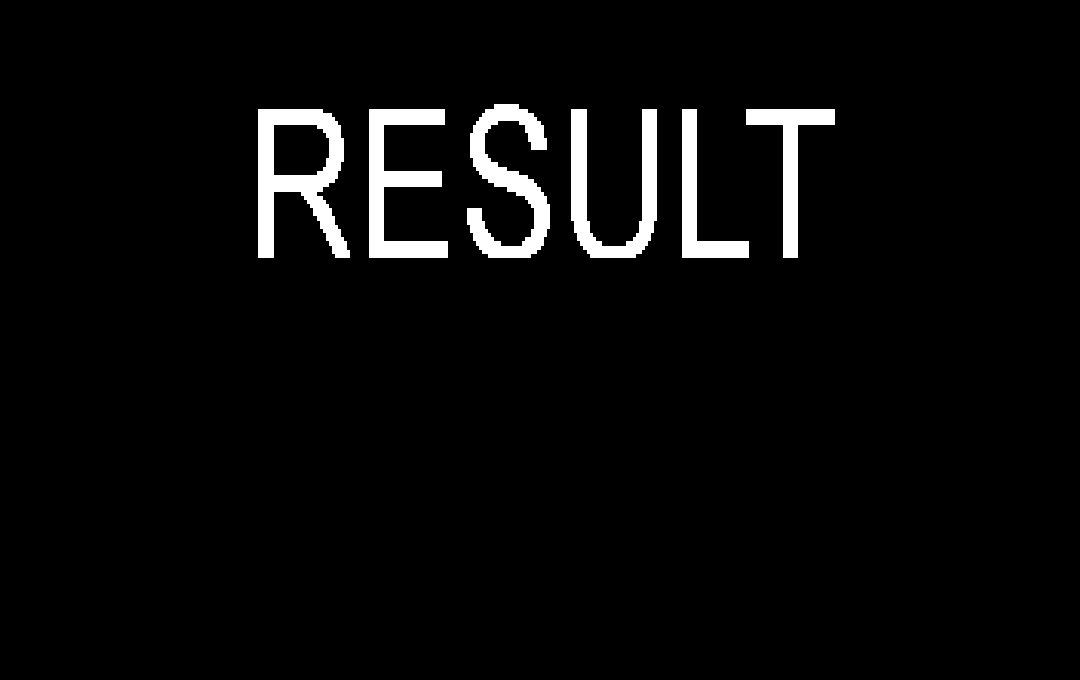
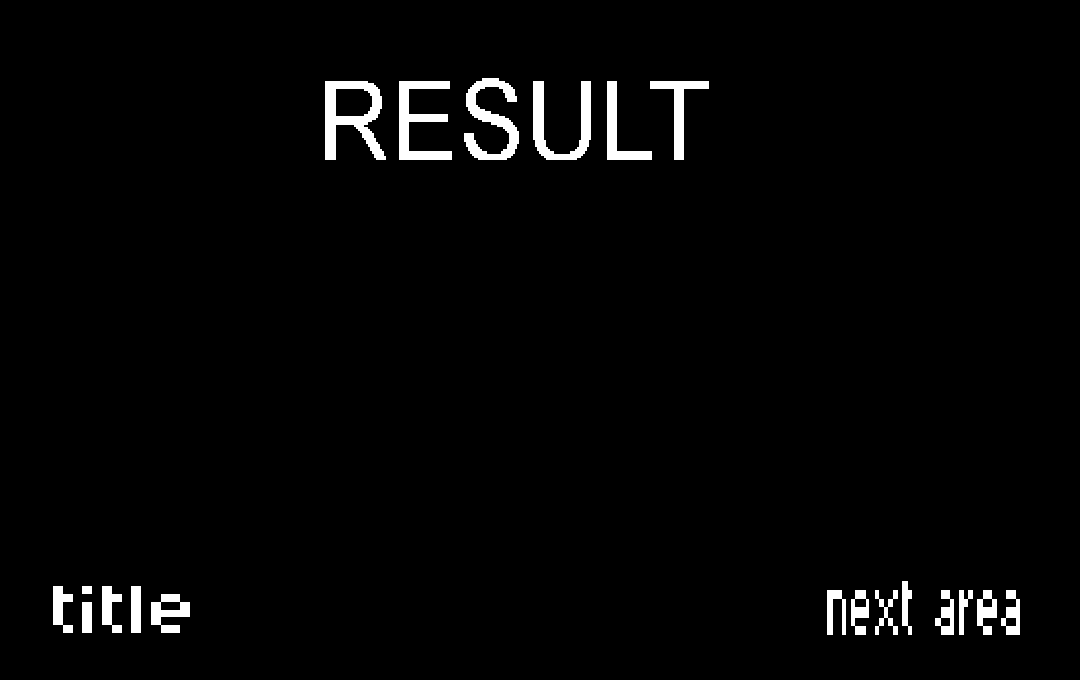
added square enemy and changed a bit the result scene.

Changed region(s): [[0.2139, 0.0926, 0.7944, 0.4015], [0.7639, 0.8647, 0.9472, 0.9574], [0.0306, 0.8647, 0.1833, 0.9265]]

diff --git a/DX21_05_Init/Enemy.cpp b/DX21_05_Init/Enemy.cpp
@@ -23,6 +23,9 @@ ID3D11ShaderResourceView* g_fastEnemyDeathTexture = nullptr;
 ID3D11ShaderResourceView* g_bombEnemyIdleTexture = nullptr;
 ID3D11ShaderResourceView* g_bombEnemyDeathTexture = nullptr;
 
+ID3D11ShaderResourceView* g_squareEnemyIdleTexture = nullptr;
+ID3D11ShaderResourceView* g_squareEnemyDeathTexture = nullptr;
+
 // 修改InitEnemies函数，加载所有纹理
 void InitEnemies() {
     // 加载敌人纹理
@@ -46,6 +49,10 @@ void InitEnemies() {
     // 炸弹敌人
     LoadTexture(g_pDevice, "asset/enemy/enemy_005_thorn/enemy_005_thorn_idle.png", &g_bombEnemyIdleTexture);
     LoadTexture(g_pDevice, "asset/enemy/enemy_005_thorn/enemy_005_thorn_death.png", &g_bombEnemyDeathTexture);
+
+    // Square enemy
+    LoadTexture(g_pDevice, "asset/enemy/enemy_006_square/enemy_006_square.png", &g_squareEnemyIdleTexture);
+    LoadTexture(g_pDevice, "asset/enemy/enemy_006_square/enemy_006_square_death.png", &g_squareEnemyDeathTexture);
 }
 
 // Enemy类实现
@@ -1153,6 +1160,123 @@ void BossEnemy::OnDeath() {
 }
 
 
+// SquareEnemy implementation - stationary enemy
+SquareEnemy::SquareEnemy(float x, float y) : Enemy(x, y, 100.0f) {
+    // Square enemy: takes normal damage from all directions
+    SetDamageMultiplier(DIR_FRONT, 1.0f);
+    SetDamageMultiplier(DIR_BACK, 1.0f);
+    SetDamageMultiplier(DIR_UP, 1.0f);
+    SetDamageMultiplier(DIR_DOWN, 1.0f);
+    SetDamageMultiplier(DIR_FRONT_UP, 1.0f);
+    SetDamageMultiplier(DIR_FRONT_DOWN, 1.0f);
+    SetDamageMultiplier(DIR_BACK_UP, 1.0f);
+    SetDamageMultiplier(DIR_BACK_DOWN, 1.0f);
+
+    width = PLAYER_WIDTH * 1.0f;
+    height = PLAYER_HEIGHT * 1.0f;
+    moveSpeed = 0.0f;  // Doesn't move
+    detectionRange = 0.0f;  // Doesn't chase
+    attackRange = 0.0f;  // Contact damage only
+
+    // Add animations (adjust frame counts based on your sprites)
+    anim.AddClip("idle", 0, 0, 1, 1, 0.1f, true, g_squareEnemyIdleTexture);
+    anim.AddClip("death", 0, 3, 1, 4, 0.1f, false, g_squareEnemyDeathTexture); // Adjust frames as needed
+
+    anim.SetClip("idle");
+
+    pulseTimer = 0.0f;
+    scale = 3.0f;
+}
+
+void SquareEnemy::Update(float deltaTime, MapManager* mapManager) {
+    // Handle death state first
+    if (isDying) {
+        anim.Update(deltaTime);
+
+        if (anim.IsFinished()) {
+            markedForDeletion = true;
+        }
+        return;
+    }
+
+    if (!isAlive) {
+        OnDeath();
+        return;
+    }
+
+    // Visibility detection
+    bool isCurrentlyVisible = IsVisible(g_camera);
+
+    if (!isCurrentlyVisible && !NeedsMinimalUpdate()) {
+        offScreenTimer += deltaTime;
+        if (offScreenTimer > MAX_OFFSCREEN_TIME &&
+            currentState == PATROL &&
+            !isHit &&
+            health >= maxHealth) {
+            return;
+        }
+    }
+
+    if (isCurrentlyVisible && !wasVisible) {
+        ResetOffScreenTimer();
+    }
+    wasVisible = isCurrentlyVisible;
+
+    if (!isCurrentlyVisible && NeedsMinimalUpdate()) {
+        UpdateMinimal(deltaTime);
+        return;
+    }
+
+    anim.Update(deltaTime);
+
+    // Handle hit state
+    if (isHit) {
+        hitTimer -= deltaTime;
+        if (hitTimer <= 0.0f) {
+            isHit = false;
+        }
+    }
+
+    // Square enemy doesn't move
+    velocityX = 0.0f;
+    velocityY = 0.0f;
+
+    // Optional: Pulse effect for visual feedback
+    pulseTimer += deltaTime;
+
+    // Simple AI: just stay in place
+    currentState = PATROL;
+
+    if (!isCurrentlyVisible) {
+        offScreenTimer += deltaTime;
+    }
+    else {
+        offScreenTimer = 0.0f;
+    }
+}
+
+void SquareEnemy::PatrolBehavior(float deltaTime) {
+    // Square enemy doesn't patrol
+    velocityX = 0.0f;
+    velocityY = 0.0f;
+}
+
+void SquareEnemy::ChaseBehavior(float deltaTime) {
+    // Square enemy doesn't chase
+    velocityX = 0.0f;
+    velocityY = 0.0f;
+}
+
+void SquareEnemy::OnHit(int damage) {
+    // Square enemy has no special behavior when hit
+    Enemy::OnHit(damage);
+}
+
+void SquareEnemy::OnDeath() {
+    // Call base death logic
+    Enemy::OnDeath();
+}
+
 
 // 敌人更新函数
 void UpdateEnemies(float deltaTime, MapManager* mapManager) {
@@ -1212,6 +1336,9 @@ void RenderEnemies(const Camera& camera) {
         }
         else if (dynamic_cast<BombEnemy*>(enemy)) {
             texture = g_bombEnemyIdleTexture;
+        }
+        else if (dynamic_cast<SquareEnemy*>(enemy)) {
+            texture = g_squareEnemyIdleTexture;
         }
 
         enemy->Render(texture, camera); // 传递相机参数

diff --git a/DX21_05_Init/Result.cpp b/DX21_05_Init/Result.cpp
@@ -11,29 +11,44 @@ ResultScene::ResultScene(SceneManager* manager)
     sceneManager = manager;
 }
 
-//it initializes the objects in title
+//it initializes the objects
 bool ResultScene::Init()
 {
     LoadTexture(g_pDevice, "asset/result.png", &backgroundTexture);
 
+    LoadTexture(g_pDevice, "asset/UI/button_normal.png", &titleTexture); // for the button
+    LoadTexture(g_pDevice, "asset/UI/button_hover.png", &titleHoverTexture);
+
+    uiButtons.emplace_back(-0.8f, -0.9f, 0.4f, 0.8f, TITLE, titleTexture, titleHoverTexture);
+    uiButtons.back().SetHitboxScale(0.25f, 0.13f);  // change this values if needed depending on the size of the button
+    uiButtons.back().SetHitboxOffset(-0.06f);
+
+
+    //todo: make another button for going to the next stage
+
     return true;
 }
 
-//it updates the objects in tile
+//it updates the objects
 void ResultScene::Update(float deltaTime)
 {
     g_inputSystem.Update();
 
 
-    if (g_inputSystem.IsTogglePressed(VK_ESCAPE))
+    // for the buttons
+    for (auto& btn : uiButtons)
     {
-        sceneManager->SwitchScene(QUIT_GAME);
+        if (btn.Process() == UIButtonResult::Clicked)
+        {
+            sceneManager->SwitchScene(btn.GetTargetScene());
+            return;
+        }
     }
 
 
 }
 
-//it draws the objects in title
+//it draws the objects
 void ResultScene::Draw()
 {
     if (backgroundTexture) {
@@ -42,9 +57,11 @@ void ResultScene::Draw()
         RenderImage(-1.0f, -1.0f, 2.0f, 2.0f, backgroundTexture, 0, 1, 1);
     }
 
+    for (const auto& btn : uiButtons)
+        btn.Draw(0.65f);
 }
 
-//it erases the objects in title
+//it erases the objects
 void ResultScene::Uninit()
 {
     if (backgroundTexture)
@@ -52,4 +69,18 @@ void ResultScene::Uninit()
         backgroundTexture->Release();
         backgroundTexture = nullptr;
     }
+
+    if (titleTexture)
+    {
+        titleTexture->Release();
+        titleTexture = nullptr;
+    }
+    if (titleHoverTexture)
+    {
+        titleHoverTexture->Release();
+        titleHoverTexture = nullptr;
+    }
+
+    uiButtons.clear();
+    g_mouseIndicator.Cleanup();
 }

diff --git a/DX21_05_Init/Map.cpp b/DX21_05_Init/Map.cpp
@@ -37,6 +37,7 @@ void Map::InitializeTileDictionary() {
         {"E3", {"E3", "enemy", "mage", false, false, false, true}},
         {"E4", {"E4", "enemy", "fast", false, false, false, true}},
         {"E5", {"E5", "enemy", "bombdd", false, false, false, true}},
+        {"E6", {"E6", "enemy", "square", false, false, false, true}},
 
         // Portal types
         {"DF", {"DF", "door", "forest", false, false, true, false}},
@@ -304,7 +305,7 @@ void Map::CreateTestMap() {
         {"00","00","00","00","00","00","00","00","00","00","00","00","00","00","00","00","00","00","00","00","00","00","00","00","00","00"},
         {"00","00","00","00","00","00","00","00","00","00","00","00","00","00","00","00","00","00","00","00","00","00","00","00","00","00"},
         {"00","00","00","00","00","00","00","00","00","00","00","00","00","00","00","00","00","00","00","00","00","00","00","00","00","00"},
-        {"00","00","00","00","00","00","00","00","00","00","00","00","00","G1","G1","00","00","00","00","00","G1","G1","00","00","00","00"},
+        {"00","00","00","00","E6","00","00","00","00","00","00","00","00","G1","G1","00","00","00","00","00","G1","G1","00","00","00","00"},
         {"00","00","00","00","00","00","00","00","OP","OP","OP","00","00","G1","G1","00","00","00","00","00","G1","G1","00","00","00","00"},
         {"00","00","00","00","00","00","00","00","00","00","00","00","00","G1","G1","00","00","00","00","00","G1","G1","00","00","00","00"},
         {"00","00","00","00","G1","G1","00","00","00","00","00","00","00","G1","G1","00","00","00","00","00","G1","G1","00","00","00","00"},

diff --git a/DX21_05_Init/Enemy.h b/DX21_05_Init/Enemy.h
@@ -395,6 +395,24 @@ private:
     int phase = 1;  // Boss phases
 };
 
+// for the square enemy class 
+class SquareEnemy : public Enemy 
+{
+public:
+    SquareEnemy(float x, float y);
+    virtual void Update(float deltaTime, MapManager* mapManager = nullptr) override;
+
+protected:
+    virtual void PatrolBehavior(float deltaTime) override;
+    virtual void ChaseBehavior(float deltaTime) override;
+    virtual void OnHit(int damage) override;
+    virtual void OnDeath() override;
+
+private:
+    // Square enemy doesn't move, just stays in place
+    float pulseTimer = 0.0f;  // Optional: for pulsing animation effect
+};
+
 
 // 敌人管理函数声明
 void InitEnemies();

diff --git a/DX21_05_Init/MapManager.cpp b/DX21_05_Init/MapManager.cpp
@@ -61,6 +61,9 @@ void MapManager::CreateMapEnemies() {
         else if (enemyType == "E5") {  // 添加爆炸敌人
             g_enemies.push_back(new BombEnemy(x, y));      // Bomb enemy
         }
+        else if(enemyType == "E6") {
+            g_enemies.push_back(new SquareEnemy(x, y));    //square enemy
+        }
     }
 }
 // Find and return a map by name from the map collection

diff --git a/DX21_05_Init/Result.h b/DX21_05_Init/Result.h
@@ -14,7 +14,10 @@ private:
 
     ID3D11ShaderResourceView* backgroundTexture = nullptr;
 
-    // add here buttons in the future maybe
+
+    std::vector<UIButton> uiButtons;
+    ID3D11ShaderResourceView* titleTexture = nullptr;
+    ID3D11ShaderResourceView* titleHoverTexture = nullptr;
 
 public:
     ResultScene(SceneManager* manager); // constructor
